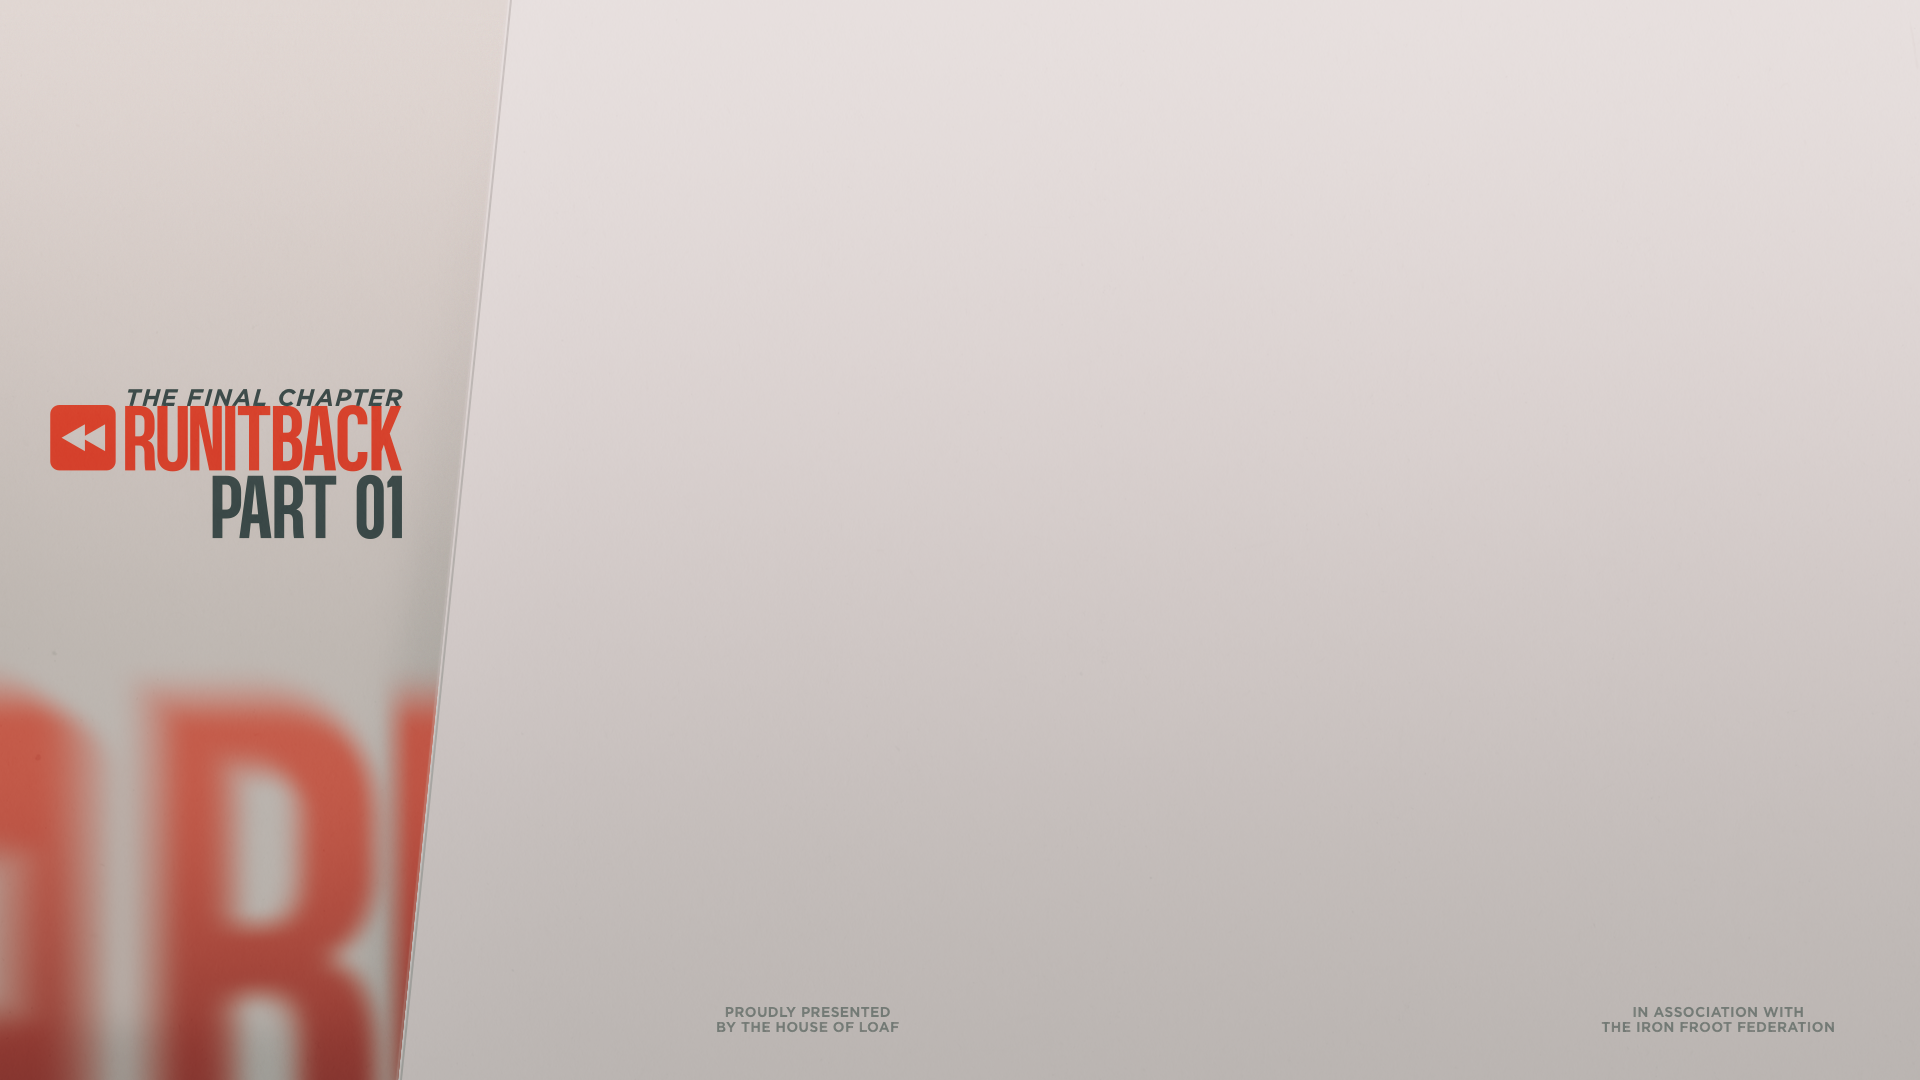
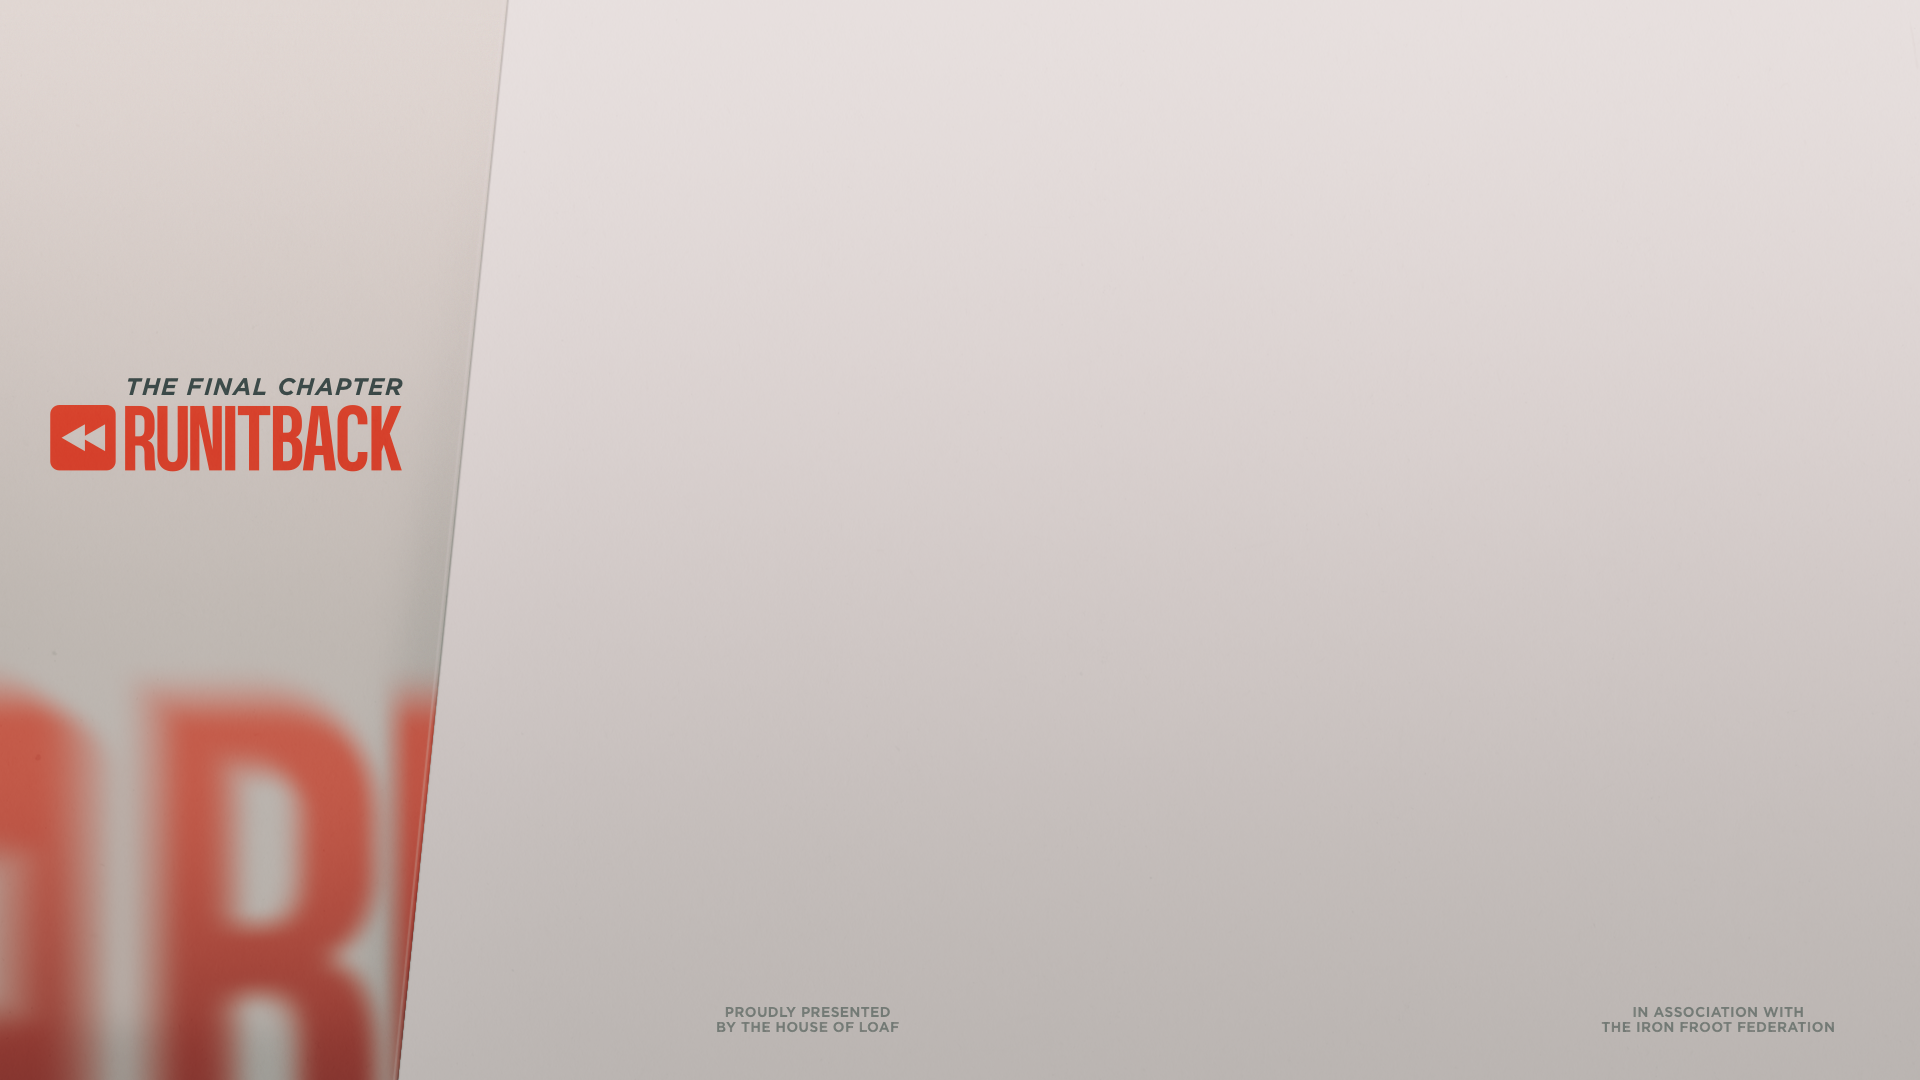
stat renders

Changed region(s): [[0.0938, 0.4278, 0.2188, 0.5194], [0.0625, 0.3361, 0.2188, 0.3972]]

diff --git a/client/src/pages/RIBSingleMatchOverlay.tsx b/client/src/pages/RIBSingleMatchOverlay.tsx
@@ -224,7 +224,7 @@ export default function RIBSingleMatchOverlay({ forceShow = false, externalData,
                         right: '57%',
                         textAlign: 'right',
                         opacity: 0.3,
-                        filter: 'blur(8px)',
+                        filter: 'blur(8px) saturate(5) brightness(1)',
                         animation: `fadeIn 1s ease-out 0.1s both`,
                     }}
                 >
@@ -339,7 +339,7 @@ export default function RIBSingleMatchOverlay({ forceShow = false, externalData,
                         left: '57%',
                         textAlign: 'left',
                         opacity: 0.3,
-                        filter: 'blur(8px)',
+                        filter: 'blur(8px) saturate(2) brightness(1.3)',
                         animation: `fadeIn 0.5s ease-out 0.1s both`,
                     }}
                 >
@@ -486,17 +486,17 @@ export default function RIBSingleMatchOverlay({ forceShow = false, externalData,
             {/* Part Number - Bottom Center */}
             <div 
                 key={`partnum-${animKey}`}
-                className="absolute bottom-[129px] left-[425px] right-0 text-center"
+                className="absolute bottom-[132px] left-[316px] right-0 text-center"
                 style={{ 
                     animation: `fadeIn 0.6s ease-out 0.4s both`,
                     zIndex: 3
                 }}
             >
                 <span
-                    className="text-[#1e3637] text-[80px] font-black tracking-[0.002em] uppercase"
+                    className="text-[#1e3637] text-[76px] font-black tracking-[0.002em] uppercase"
                     style={{ fontFamily: 'Crook, Crook, sans-serif' }}
                 >
-                    {matchCards.partNumber}
+                   PART{matchCards.partNumber}
                 </span>
             </div>
 

diff --git a/client/src/pages/RIBPlayerStatsOverlay.tsx b/client/src/pages/RIBPlayerStatsOverlay.tsx
@@ -93,7 +93,7 @@ export default function RIBPlayerStatsOverlay({ forceShow = false, externalData,
         return <div className="w-[1920px] h-[1080px]" />;
     }
 
-    const charImg = `/source/overlay/run_it_back/characters/P1/${player.character.toLowerCase()}_stats.png`;
+    const charImg = `/source/overlay/run_it_back/characters/stat_screen/${player.character.toLowerCase()}.png`;
 
     // Clip paths for the blur effect on the large name
     // Line at 655px top, ~545px bottom (5.8deg rotation)
@@ -144,7 +144,7 @@ export default function RIBPlayerStatsOverlay({ forceShow = false, externalData,
                         animation: `slideUpBlur 0.8s ease-out both`,
                         fontFamily: 'Crook, Crook, sans-serif',
                         letterSpacing: '-0.03em',
-                        filter: 'blur(8px)',
+                        filter: 'blur(8px) saturate(2) brightness(1.3)',
                         transformOrigin: 'bottom right',
                         background: 'linear-gradient(to bottom, #DE4725, #A21D17)',
                         WebkitBackgroundClip: 'text',
